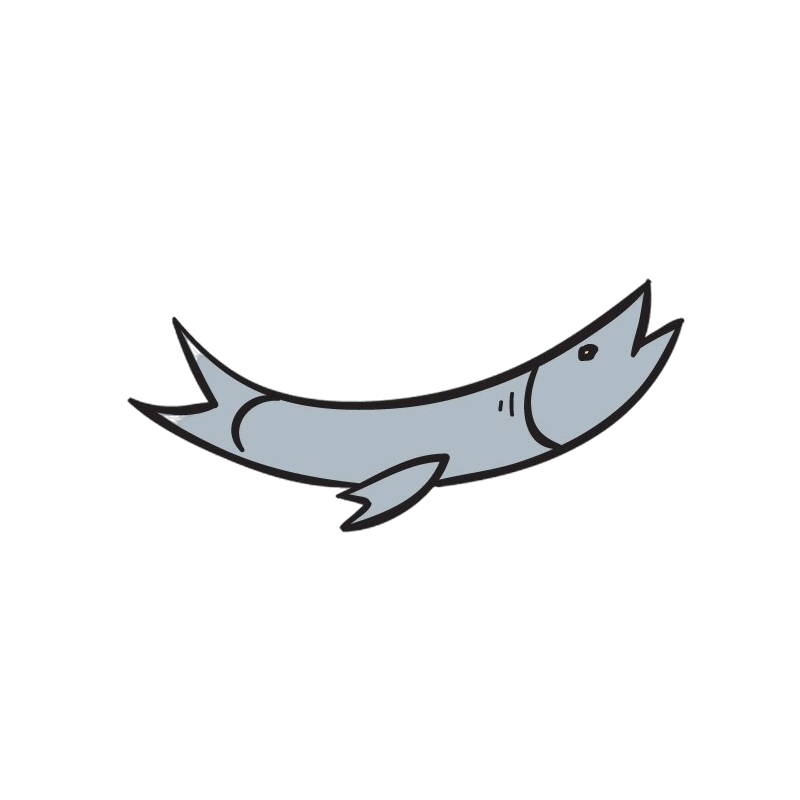
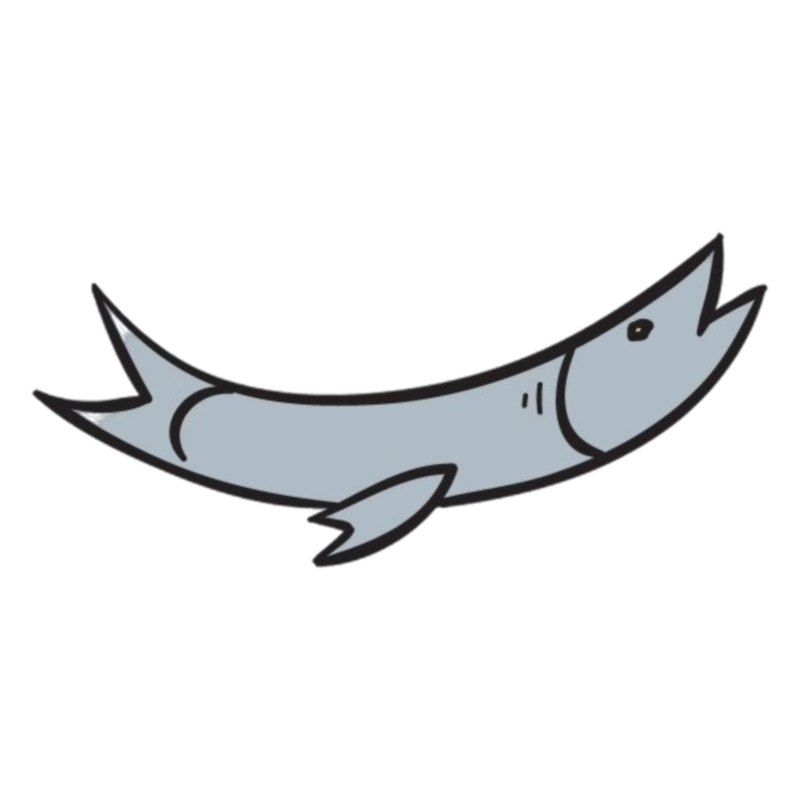
Features:
- add moves after finding treasure
- add fish
- add new assets

Changed region(s): [[0.0312, 0.2812, 0.9688, 0.7188]]

diff --git a/src/client/game/GameProgress.tsx b/src/client/game/GameProgress.tsx
@@ -15,11 +15,11 @@ const ProgressSection = ({ label, value, iconSrc, classes = '', imgClasses = '' 
       <img
         src={iconSrc}
         alt={label}
-        className={`object-contain h-12 select-none ${imgClasses}`}
+        className={`object-contain h-8 select-none ${imgClasses}`}
       />
 
       <div className="flex flex-col gap-1 justify-center">
-        <span className="text-stone-500 text-xs font-bold uppercase tracking-widest leading-tight">
+        <span className="text-stone-500 text-xs font-bold uppercase leading-tight">
           {label}
         </span>
         <span className={`text-lg font-pirate leading-none drop-shadow-sm ${classes}`}>
@@ -37,14 +37,15 @@ interface GameProgressProps {
   treasuresFound: number;
   totalTreasures: number;
   bombs?: number;
+  points: number;
 }
 
-export const GameProgress = ({ moves, treasuresFound, totalTreasures, bombs }: GameProgressProps) => {
+export const GameProgress = ({ moves, treasuresFound, totalTreasures, bombs, points }: GameProgressProps) => {
   return (
-    <div className="flex w-full items-center justify-center gap-4 select-none py-3 px-12"
+    <div className="flex w-full items-center justify-between gap-4 select-none py-3 px-8"
          style={{
            backgroundImage: 'url("/images/banner_paper_wide.png")',
-           backgroundSize: '100% 400%',
+           backgroundSize: '110% 400%',
            backgroundPosition: 'center',
            backgroundRepeat: 'no-repeat',
          }}
@@ -61,7 +62,7 @@ export const GameProgress = ({ moves, treasuresFound, totalTreasures, bombs }: G
       {/* TREASURES SECTION */}
       <ProgressSection
         label="Treasures"
-        iconSrc="/images/gold-hud.png"
+        iconSrc="/images/chest.png"
         value={
           <>
             {treasuresFound} <span className="text-xl leading-none">/</span> {totalTreasures}
@@ -76,9 +77,20 @@ export const GameProgress = ({ moves, treasuresFound, totalTreasures, bombs }: G
           iconSrc="/images/bomb_hud.png"
           value={bombs}
           classes="text-stone-600"
-          imgClasses="h-14"
+          imgClasses="h-10"
         />
       ) : null}
+
+      <ProgressSection
+        label="Gold"
+        iconSrc="/images/gold-hud.png"
+        value={
+          <>
+            {points}
+          </>
+        }
+        classes="text-stone-600"
+      />
     </div>
   );
 };

diff --git a/src/client/hooks/useGame.ts b/src/client/hooks/useGame.ts
@@ -11,12 +11,14 @@ interface NearestTreasure {
 const pointsMap: FindingsMap = {
   chest: 200,
   gold: 50,
+  fish: 1,
   bomb: 0
 }
 
 const movesMap: FindingsMap = {
-  chest: 2,
+  chest: 3,
   gold: 1,
+  fish: 0,
   bomb: 0
 }
 
@@ -187,25 +189,28 @@ export const useGame = (initialDifficulty: 'base' = 'base') => {
       return;
     }
 
+    let bonusMoves = 0;
+
     if (currentCell.isTreasure) {
       const updatedFound = treasuresFound + 1;
       setTreasuresFound(updatedFound);
       let newPoints = points + pointsMap[(currentCell.value)];
-      const newMoves = moves + movesMap[(currentCell.value)];
-      setMoves(newMoves);
+      bonusMoves = movesMap[(currentCell.value)];
 
       if (updatedFound === mapInfo.totalTreasures) {
         setIsEnd(true);
         setIsWin(true);
-        newPoints = newPoints + moves * RUM_POINTS
+        const movesLeft = moves - 1 + bonusMoves
+        newPoints = newPoints + (movesLeft * RUM_POINTS);
         setPoints(newPoints);
+        setMoves(movesLeft);
         return;
       }
 
       setPoints(newPoints);
     }
 
-    const leftMoves = moves - 1;
+    const leftMoves = (moves - 1) + bonusMoves;
 
     if (leftMoves === 0) {
       revealTreasures();

diff --git a/src/client/splash.html b/src/client/splash.html
@@ -13,11 +13,12 @@
     <link rel="preload" as="image" href="/images/bomb.png" />
     <link rel="preload" as="image" href="/images/bomb_hud.png" />
     <link rel="preload" as="image" href="/images/gold.png" />
+    <link rel="preload" as="image" href="/images/fish.png" />
     <link rel="preload" as="image" href="/images/tile.png" />
     <link rel="preload" as="image" href="/images/board.png" />
     <link rel="preload" as="image" href="/images/wood.png" />
     <link rel="preload" as="image" href="/images/gold-hud.png" />
-    <link rel="preload" as="image" href="/images/button_bg.png" />
+    <link rel="preload" as="image" href="/images/empty_btn.png" />
     <link rel="preload" as="image" href="/images/menu_btn.png" />
     <link rel="preload" as="image" href="/images/banner_paper_wide.png" />
     <link rel="preload" as="image" href="/images/wooden_banner_wide.png" />

diff --git a/src/client/splash/Menu.tsx b/src/client/splash/Menu.tsx
@@ -130,7 +130,7 @@ export const Menu = ({ onStart, onShowLeaderboard, onShowGuides }: MenuProps) =>
             variant="svg"
             onClick={onShowLeaderboard}
             // classes="w-14 h-14"
-            image="button_bg"
+            image="empty_btn"
             label={"Leaderboard"}
             svgIcon={<TrophyIcon className="w-4 h-4 text-yellow-500 drop-shadow-md" />}
           >
@@ -141,7 +141,7 @@ export const Menu = ({ onStart, onShowLeaderboard, onShowGuides }: MenuProps) =>
             variant="svg"
             onClick={onShowGuides}
             // classes="w-14 h-14"
-            image="button_bg"
+            image="empty_btn"
             label={"Guides"}
             svgIcon={<ScrollIcon className="w-4 h-4 text-amber-100 drop-shadow-md" />}
           >

diff --git a/src/server/routes/game.ts b/src/server/routes/game.ts
@@ -70,6 +70,7 @@ router.get('/api/daily-challenge', async (_req, res) => {
       findings: {
         chest: parseRedisInt(statsRaw?.findings_chests),
         gold: parseRedisInt(statsRaw?.findings_gold),
+        fish: parseRedisInt(statsRaw?.findings_fish),
         bomb: parseRedisInt(statsRaw?.findings_bombs),
       }
     };
@@ -139,6 +140,7 @@ router.post('/api/submit-score', async (req, res) => {
       findings: {
         chest: parseRedisInt(updatedStatsRaw?.findings_chests),
         gold: parseRedisInt(updatedStatsRaw?.findings_gold),
+        fish: parseRedisInt(updatedStatsRaw?.findings_fish),
         bomb: parseRedisInt(updatedStatsRaw?.findings_bombs),
       }
     };

diff --git a/src/client/game/Board.tsx b/src/client/game/Board.tsx
@@ -21,7 +21,8 @@ export const Board = ({ fullScreenBtn = false }: BoardProps) => {
     totalTreasures,
     treasuresFound,
     wasBombed,
-    mapInfo
+    mapInfo,
+    points
   } = useGame('base');
   const [isModalOpen, setIsModalOpen] = useState(false);
 
@@ -50,6 +51,7 @@ export const Board = ({ fullScreenBtn = false }: BoardProps) => {
             treasuresFound={treasuresFound}
             totalTreasures={totalTreasures}
             bombs={mapInfo.bombs}
+            points={points}
           />
         </div>
 

diff --git a/src/client/UI/GUIButton.tsx b/src/client/UI/GUIButton.tsx
@@ -19,7 +19,7 @@ export const GuiButton = ({onClick, classes, label = '', image, variant = 'icon'
       aria-label={label}
       style={{
         backgroundImage: `url("/images/${image}.png")`,
-        backgroundSize: variant === 'text' ? '92px 48px' : '48px 48px',
+        backgroundSize: '100% 100%',
         backgroundPosition: 'center',
         backgroundRepeat: 'no-repeat',
       }}

diff --git a/src/client/game.html b/src/client/game.html
@@ -6,7 +6,7 @@
       name="viewport"
       content="width=device-width, initial-scale=1.0, maximum-scale=1.0, user-scalable=no"
     />
-    <title>devvit</title>
+    <title>Pirate Chest</title>
   </head>
   <body class="h-full">
     <div id="root" class="h-full"></div>

diff --git a/src/shared/types/game.ts b/src/shared/types/game.ts
@@ -1,4 +1,4 @@
-export type TreasureKind = 'chest' | 'gold' | 'bomb';
+export type TreasureKind = 'chest' | 'gold' | 'fish' | 'bomb';
 
 export type FindingsMap = {
   [key in TreasureKind]: number;

diff --git a/src/client/game/config.ts b/src/client/game/config.ts
@@ -22,8 +22,9 @@ export const config: Config = {
     maxMoves: 10,
     treasures: {
       chest: 1,
-      gold: 2,
-      bomb: 3
+      gold: 3,
+      bomb: 1,
+      fish: 1
     }
   }
 }
